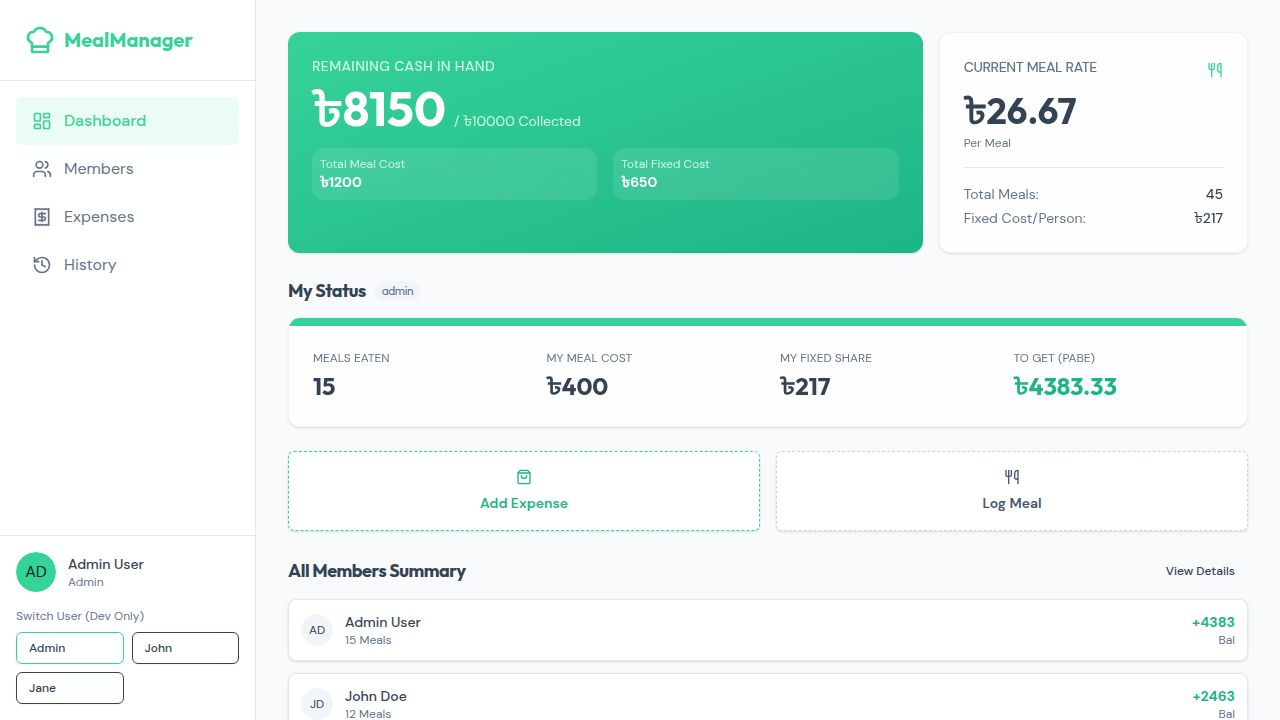
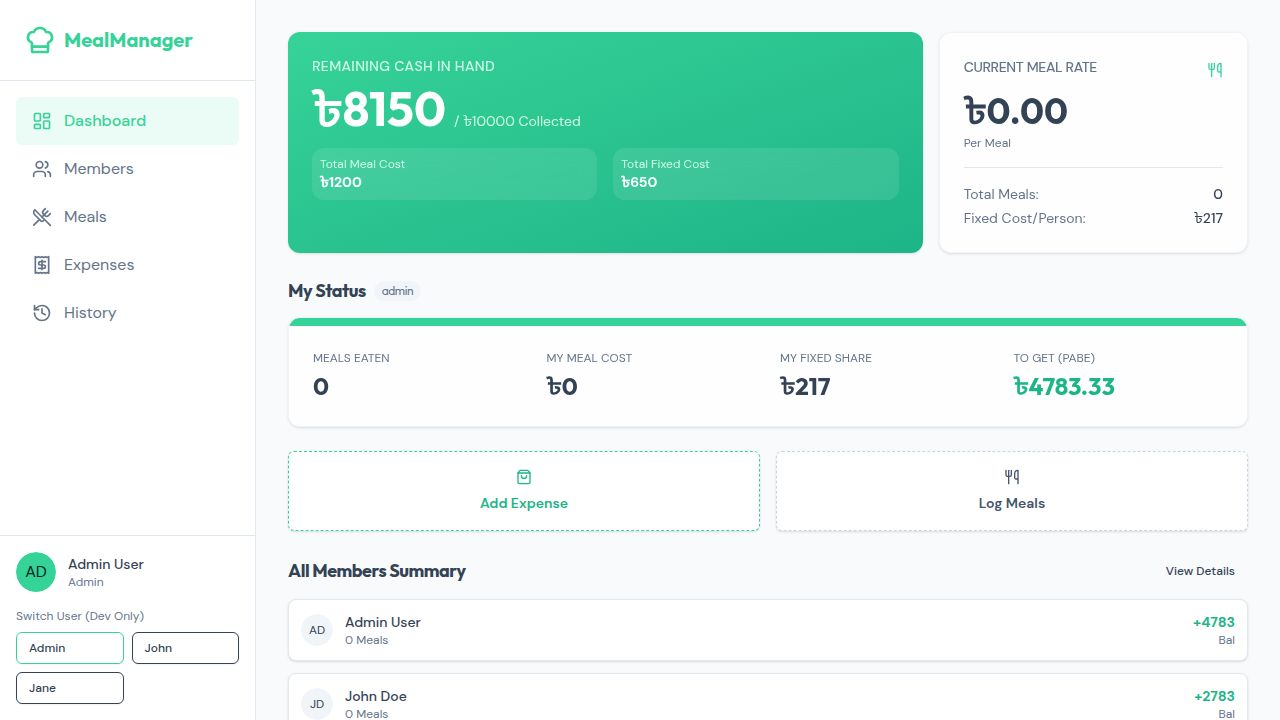
Add a history page to view past meal cycles
Implement a new page for displaying archived meal cycle data, including member balances and expenses, and integrate it into the application's routing.

Replit-Commit-Author: Agent
Replit-Commit-Session-Id: 1249d140-a744-4b92-817e-0eff34c6c788
Replit-Commit-Checkpoint-Type: full_checkpoint
Replit-Commit-Event-Id: 0b5fcda5-0cc3-4c62-ae59-5adb6bd5511e
Replit-Commit-Screenshot-Url: https://storage.googleapis.com/screenshot-production-us-central1/c980620c-0b78-43ae-873c-ac939afa5b7d/1249d140-a744-4b92-817e-0eff34c6c788/Bl7IoZg
Replit-Helium-Checkpoint-Created: true

diff --git a/client/src/lib/meal-context.tsx b/client/src/lib/meal-context.tsx
@@ -1,7 +1,6 @@
-import React, { createContext, useContext, useState, useEffect, ReactNode } from 'react';
+import React, { createContext, useContext, useState, ReactNode } from 'react';
 import { v4 as uuidv4 } from 'uuid';
 
-// Types
 export type Role = 'admin' | 'viewer';
 
 export interface Member {
@@ -18,26 +17,40 @@ export interface Expense {
   id: string;
   amount: number;
   description: string;
-  type: 'meal' | 'fixed'; // meal = Table A, fixed = Table B
+  type: 'meal' | 'fixed';
   date: string;
-  paidBy: string; // Member ID
+  paidBy: string;
 }
 
 export interface MealLog {
   id: string;
-  date: string; // ISO date (YYYY-MM-DD)
+  date: string;
   memberId: string;
   count: number;
+}
+
+export interface ArchiveCycle {
+  id: string;
+  endDate: string;
+  stats: {
+    totalDeposits: number;
+    totalMealExpenses: number;
+    totalFixedExpenses: number;
+    totalMealsConsumed: number;
+    currentMealRate: number;
+    fixedCostPerMember: number;
+    remainingCash: number;
+  };
+  members: (Member & { mealCost: number, fixedCost: number, totalCost: number, balance: number })[];
 }
 
 interface MealContextType {
   members: Member[];
   expenses: Expense[];
   mealLogs: MealLog[];
+  archives: ArchiveCycle[];
   currentUser: Member | null;
   setCurrentUser: (member: Member) => void;
-  
-  // Actions
   addMember: (name: string, role: Role) => void;
   updateMember: (id: string, updates: Partial<Member>) => void;
   removeMember: (id: string) => void;
@@ -45,29 +58,18 @@ interface MealContextType {
   addDeposit: (memberId: string, amount: number) => void;
   logMeal: (memberId: string, count: number, date: string) => void;
   resetCycle: () => void;
-
-  // Derived Data (Calculated)
-  stats: {
-    totalDeposits: number;
-    totalMealExpenses: number; // Table A Total
-    totalFixedExpenses: number; // Table B Total
-    totalMealsConsumed: number;
-    currentMealRate: number;
-    fixedCostPerMember: number;
-    remainingCash: number;
-  };
-  
+  stats: ArchiveCycle['stats'];
   getMemberStats: (memberId: string) => {
     mealCost: number;
     fixedCost: number;
     totalCost: number;
-    balance: number; // Positive = Refund (Pabe), Negative = Due (Dibe)
+    balance: number;
+    mealsEaten: number;
   };
 }
 
 const MealContext = createContext<MealContextType | undefined>(undefined);
 
-// Mock Data Initialization
 const INITIAL_MEMBERS: Member[] = [
   { id: '1', name: 'Admin User', role: 'admin', deposit: 5000, mealsEaten: 0, isActive: true, avatar: 'AD' },
   { id: '2', name: 'John Doe', role: 'viewer', deposit: 3000, mealsEaten: 0, isActive: true, avatar: 'JD' },
@@ -84,60 +86,33 @@ export function MealProvider({ children }: { children: ReactNode }) {
   const [members, setMembers] = useState<Member[]>(INITIAL_MEMBERS);
   const [expenses, setExpenses] = useState<Expense[]>(INITIAL_EXPENSES);
   const [mealLogs, setMealLogs] = useState<MealLog[]>([]);
+  const [archives, setArchives] = useState<ArchiveCycle[]>([]);
   const [currentUser, setCurrentUser] = useState<Member | null>(INITIAL_MEMBERS[0]);
 
-  // Derived Calculations
   const totalDeposits = members.reduce((sum, m) => sum + m.deposit, 0);
   const totalMealExpenses = expenses.filter(e => e.type === 'meal').reduce((sum, e) => sum + e.amount, 0);
   const totalFixedExpenses = expenses.filter(e => e.type === 'fixed').reduce((sum, e) => sum + e.amount, 0);
-  
-  // Calculate total meals from logs
   const totalMealsConsumed = mealLogs.reduce((sum, log) => sum + log.count, 0);
   const activeMembersCount = members.filter(m => m.isActive).length;
-
-  // Key Rates
   const currentMealRate = totalMealsConsumed > 0 ? totalMealExpenses / totalMealsConsumed : 0;
   const fixedCostPerMember = activeMembersCount > 0 ? totalFixedExpenses / activeMembersCount : 0;
   const remainingCash = totalDeposits - (totalMealExpenses + totalFixedExpenses);
 
-  const stats = {
-    totalDeposits,
-    totalMealExpenses,
-    totalFixedExpenses,
-    totalMealsConsumed,
-    currentMealRate,
-    fixedCostPerMember,
-    remainingCash,
-  };
+  const stats = { totalDeposits, totalMealExpenses, totalFixedExpenses, totalMealsConsumed, currentMealRate, fixedCostPerMember, remainingCash };
 
   const getMemberStats = (memberId: string) => {
     const member = members.find(m => m.id === memberId);
-    if (!member) return { mealCost: 0, fixedCost: 0, totalCost: 0, balance: 0 };
-
-    const memberMeals = mealLogs
-      .filter(log => log.memberId === memberId)
-      .reduce((sum, log) => sum + log.count, 0);
-
+    if (!member) return { mealCost: 0, fixedCost: 0, totalCost: 0, balance: 0, mealsEaten: 0 };
+    const memberMeals = mealLogs.filter(log => log.memberId === memberId).reduce((sum, log) => sum + log.count, 0);
     const mealCost = memberMeals * currentMealRate;
     const fixedCost = member.isActive ? fixedCostPerMember : 0;
     const totalCost = mealCost + fixedCost;
     const balance = member.deposit - totalCost;
-
     return { mealCost, fixedCost, totalCost, balance, mealsEaten: memberMeals };
   };
 
-  // Actions
   const addMember = (name: string, role: Role) => {
-    const newMember: Member = {
-      id: uuidv4(),
-      name,
-      role,
-      deposit: 0,
-      mealsEaten: 0,
-      isActive: true,
-      avatar: name.substring(0, 2).toUpperCase(),
-    };
-    setMembers([...members, newMember]);
+    setMembers([...members, { id: uuidv4(), name, role, deposit: 0, mealsEaten: 0, isActive: true, avatar: name.substring(0, 2).toUpperCase() }]);
   };
 
   const updateMember = (id: string, updates: Partial<Member>) => {
@@ -150,21 +125,11 @@ export function MealProvider({ children }: { children: ReactNode }) {
   };
 
   const addExpense = (amount: number, description: string, type: 'meal' | 'fixed', paidBy: string) => {
-    const newExpense: Expense = {
-      id: uuidv4(),
-      amount,
-      description,
-      type,
-      date: new Date().toISOString(),
-      paidBy,
-    };
-    setExpenses([...expenses, newExpense]);
+    setExpenses([...expenses, { id: uuidv4(), amount, description, type, date: new Date().toISOString(), paidBy }]);
   };
 
   const addDeposit = (memberId: string, amount: number) => {
-    setMembers(members.map(m => 
-      m.id === memberId ? { ...m, deposit: m.deposit + amount } : m
-    ));
+    setMembers(members.map(m => m.id === memberId ? { ...m, deposit: m.deposit + amount } : m));
   };
 
   const logMeal = (memberId: string, count: number, date: string) => {
@@ -173,11 +138,8 @@ export function MealProvider({ children }: { children: ReactNode }) {
       const existingIdx = prev.findIndex(log => log.memberId === memberId && log.date === shortDate);
       if (existingIdx >= 0) {
         const newLogs = [...prev];
-        if (count === 0) {
-          newLogs.splice(existingIdx, 1);
-        } else {
-          newLogs[existingIdx] = { ...newLogs[existingIdx], count };
-        }
+        if (count === 0) newLogs.splice(existingIdx, 1);
+        else newLogs[existingIdx] = { ...newLogs[existingIdx], count };
         return newLogs;
       }
       if (count === 0) return prev;
@@ -186,6 +148,19 @@ export function MealProvider({ children }: { children: ReactNode }) {
   };
 
   const resetCycle = () => {
+    const archivedMembers = members.map(m => {
+      const mStats = getMemberStats(m.id);
+      return { ...m, ...mStats };
+    });
+
+    const newArchive: ArchiveCycle = {
+      id: uuidv4(),
+      endDate: new Date().toISOString(),
+      stats: { ...stats },
+      members: archivedMembers
+    };
+
+    setArchives([newArchive, ...archives]);
     setMembers(members.map(m => ({ ...m, deposit: 0, mealsEaten: 0 })));
     setExpenses([]);
     setMealLogs([]);
@@ -194,19 +169,9 @@ export function MealProvider({ children }: { children: ReactNode }) {
   return (
     <MealContext.Provider value={{
       members: members.map(m => ({ ...m, mealsEaten: mealLogs.filter(l => l.memberId === m.id).reduce((s, l) => s + l.count, 0) })),
-      expenses,
-      mealLogs,
-      currentUser,
-      setCurrentUser,
-      addMember,
-      updateMember,
-      removeMember,
-      addExpense,
-      addDeposit,
-      logMeal,
-      resetCycle,
-      stats,
-      getMemberStats
+      expenses, mealLogs, archives, currentUser, setCurrentUser,
+      addMember, updateMember, removeMember, addExpense, addDeposit, logMeal, resetCycle,
+      stats, getMemberStats
     }}>
       {children}
     </MealContext.Provider>
@@ -215,8 +180,6 @@ export function MealProvider({ children }: { children: ReactNode }) {
 
 export function useMeal() {
   const context = useContext(MealContext);
-  if (context === undefined) {
-    throw new Error('useMeal must be used within a MealProvider');
-  }
+  if (context === undefined) throw new Error('useMeal must be used within a MealProvider');
   return context;
 }

diff --git a/client/src/pages/history.tsx b/client/src/pages/history.tsx
@@ -1,0 +1,90 @@
+import { useMeal } from '@/lib/meal-context';
+import { Card, CardContent, CardHeader, CardTitle } from '@/components/ui/card';
+import { Table, TableBody, TableCell, TableHead, TableHeader, TableRow } from "@/components/ui/table";
+import { format } from 'date-fns';
+import { Accordion, AccordionContent, AccordionItem, AccordionTrigger } from "@/components/ui/accordion";
+import { Badge } from "@/components/ui/badge";
+
+export default function HistoryPage() {
+  const { archives } = useMeal();
+
+  if (archives.length === 0) {
+    return (
+      <div className="text-center py-20 text-muted-foreground">
+        <h1 className="text-2xl font-bold font-heading mb-2">No Past Cycles</h1>
+        <p>Archive your first cycle to see it here.</p>
+      </div>
+    );
+  }
+
+  return (
+    <div className="space-y-6">
+      <h1 className="text-2xl font-bold font-heading">Past Cycles</h1>
+
+      <Accordion type="single" collapsible className="space-y-4">
+        {archives.map((archive) => (
+          <AccordionItem key={archive.id} value={archive.id} className="border rounded-lg bg-card px-4">
+            <AccordionTrigger className="hover:no-underline py-4">
+              <div className="flex flex-1 items-center justify-between pr-4">
+                <div className="text-left">
+                  <p className="font-bold">Cycle Ended: {format(new Date(archive.endDate), 'PPP')}</p>
+                  <p className="text-sm text-muted-foreground">{archive.members.length} Members • {archive.stats.totalMealsConsumed} Total Meals</p>
+                </div>
+                <Badge variant="secondary" className="bg-emerald-100 text-emerald-700">
+                  Rate: ৳{archive.stats.currentMealRate.toFixed(2)}
+                </Badge>
+              </div>
+            </AccordionTrigger>
+            <AccordionContent className="pb-6">
+              <div className="grid grid-cols-2 md:grid-cols-4 gap-4 mb-6 pt-2">
+                <div className="p-3 bg-secondary/30 rounded-lg">
+                  <p className="text-xs text-muted-foreground uppercase">Total Deposits</p>
+                  <p className="font-bold">৳{archive.stats.totalDeposits.toFixed(0)}</p>
+                </div>
+                <div className="p-3 bg-secondary/30 rounded-lg">
+                  <p className="text-xs text-muted-foreground uppercase">Meal Expense</p>
+                  <p className="font-bold">৳{archive.stats.totalMealExpenses.toFixed(0)}</p>
+                </div>
+                <div className="p-3 bg-secondary/30 rounded-lg">
+                  <p className="text-xs text-muted-foreground uppercase">Fixed Expense</p>
+                  <p className="font-bold">৳{archive.stats.totalFixedExpenses.toFixed(0)}</p>
+                </div>
+                <div className="p-3 bg-secondary/30 rounded-lg">
+                  <p className="text-xs text-muted-foreground uppercase">Fixed Rate</p>
+                  <p className="font-bold">৳{archive.stats.fixedCostPerMember.toFixed(0)}</p>
+                </div>
+              </div>
+
+              <div className="border rounded-lg overflow-hidden">
+                <Table>
+                  <TableHeader>
+                    <TableRow>
+                      <TableHead>Member</TableHead>
+                      <TableHead className="text-center">Meals</TableHead>
+                      <TableHead className="text-center">Deposit</TableHead>
+                      <TableHead className="text-right">Final Balance</TableHead>
+                    </TableRow>
+                  </TableHeader>
+                  <TableBody>
+                    {archive.members.map((m) => (
+                      <TableRow key={m.id}>
+                        <TableCell className="font-medium">{m.name}</TableCell>
+                        <TableCell className="text-center">{m.mealsEaten}</TableCell>
+                        <TableCell className="text-center">৳{m.deposit.toFixed(0)}</TableCell>
+                        <TableCell className={cn("text-right font-bold", m.balance >= 0 ? "text-emerald-600" : "text-red-600")}>
+                          {m.balance >= 0 ? '+' : '-'}{Math.abs(m.balance).toFixed(2)}
+                        </TableCell>
+                      </TableRow>
+                    ))}
+                  </TableBody>
+                </Table>
+              </div>
+            </AccordionContent>
+          </AccordionItem>
+        ))}
+      </Accordion>
+    </div>
+  );
+}
+
+const cn = (...classes: any[]) => classes.filter(Boolean).join(' ');

diff --git a/client/src/App.tsx b/client/src/App.tsx
@@ -1,10 +1,11 @@
-import { Switch, Route, Link, useLocation } from "wouter";
+import { Switch, Route } from "wouter";
 import { MealProvider } from "@/lib/meal-context";
 import { Layout } from "@/components/layout";
 import Dashboard from "@/pages/dashboard";
 import Members from "@/pages/members";
 import Expenses from "@/pages/expenses";
 import Meals from "@/pages/meals";
+import HistoryPage from "@/pages/history";
 import NotFound from "@/pages/not-found";
 import { Toaster } from "@/components/ui/toaster";
 
@@ -16,9 +17,7 @@ function Router() {
         <Route path="/members" component={Members} />
         <Route path="/expenses" component={Expenses} />
         <Route path="/meals" component={Meals} />
-         <Route path="/history">
-          <div className="text-center py-10 text-muted-foreground">Cycle History (Coming Soon)</div>
-        </Route>
+        <Route path="/history" component={HistoryPage} />
         <Route component={NotFound} />
       </Switch>
     </Layout>
